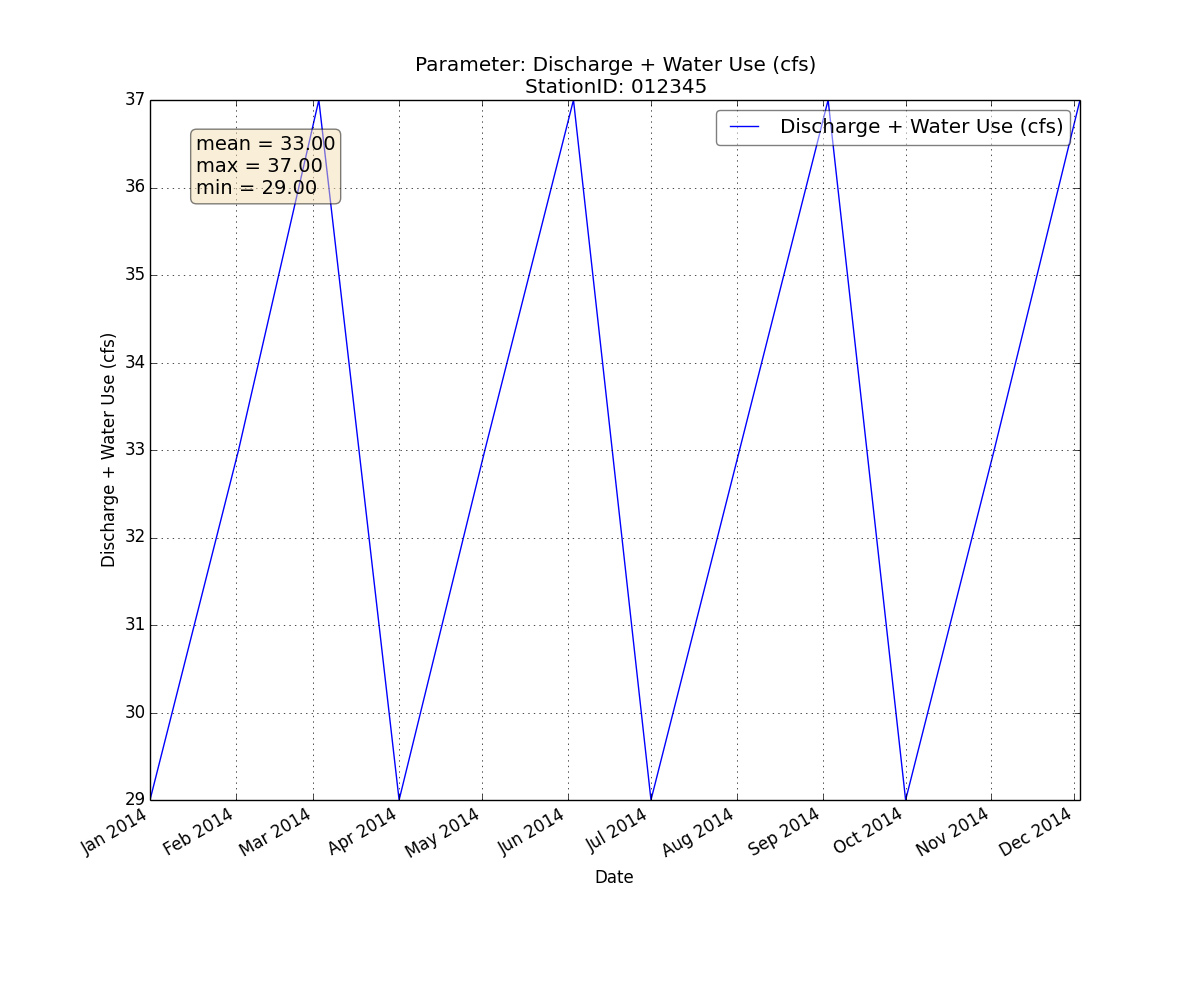
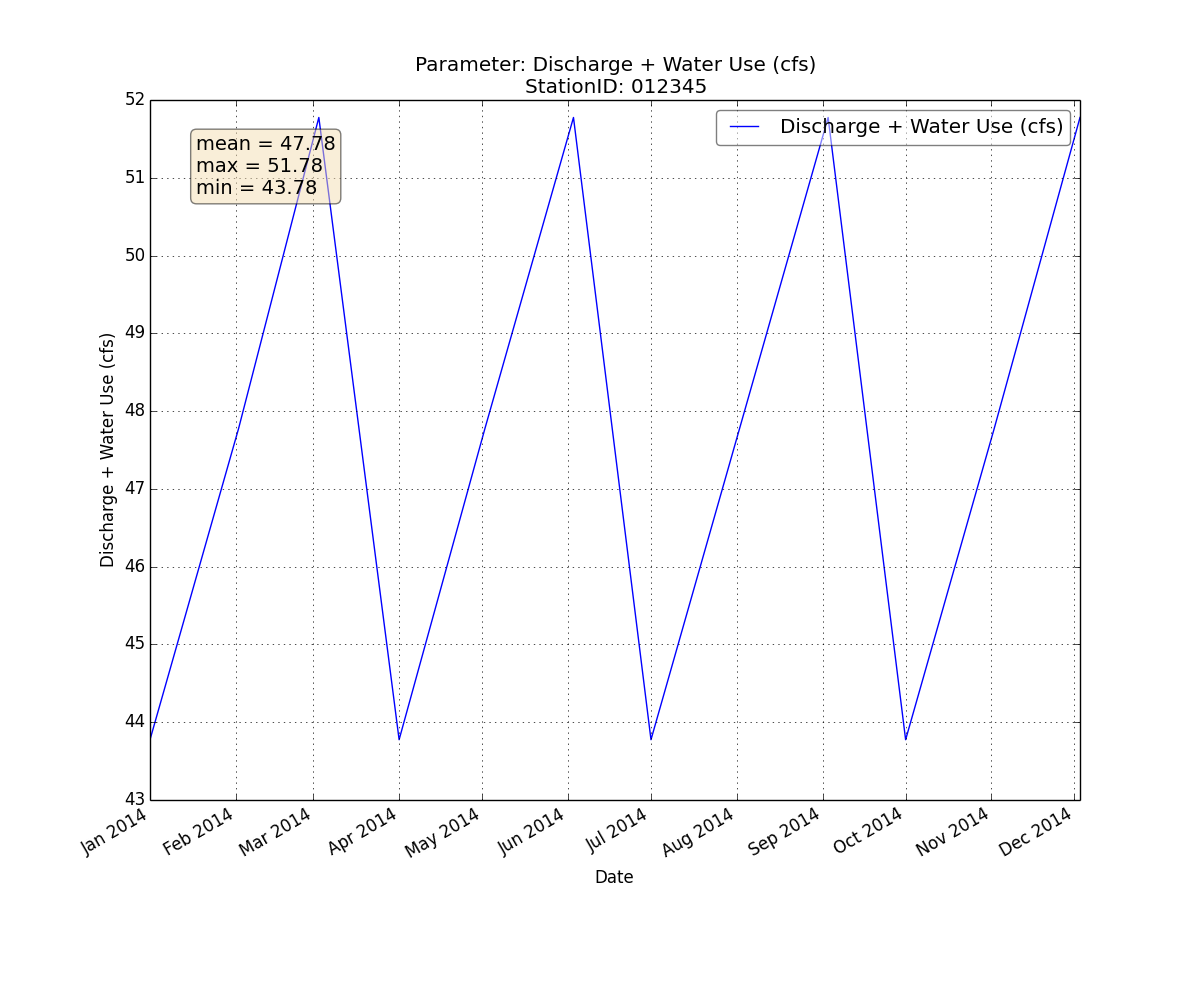
added unit conversion from mega gallons per day to cubic feet per second

diff --git a/waterapputils/wateruse.py b/waterapputils/wateruse.py
@@ -150,7 +150,7 @@ def get_wateruse_values(wateruse_data, id_list):
         
     Returns
     -------
-    values: list
+    values : list
         List containing lists of water use values for each id in id_list; shape is m x n where m is the number of water use values and n is number of ids in id_list   
     
     Notes
@@ -158,7 +158,7 @@ def get_wateruse_values(wateruse_data, id_list):
     values = [[  1.3   2.7   3.3   4.7   5.3   6.7   7.3   8.7   9.3  10.7  11.3  12.7]
               [  1.2   2.8   3.2   4.8   5.2   6.8   7.2   8.8   9.2  10.8  11.2  12.8]]
     """
-    # get water use types of interest; 
+    # get all water use types from column names
     wateruse_types = []
     for name in wateruse_data["column_names"]:
         if name not in ["huc12", "newhydroid"]:
@@ -181,9 +181,11 @@ def get_wateruse_values(wateruse_data, id_list):
 
     return values
 
+
 def sum_values(values):
     """   
-    Get water use values based on id(s) of interest.
+    Sum values row-wise, column-wise, and absolute total. Return dictionary containing
+    each sum.
     
     Parameters
     ----------
@@ -244,6 +246,27 @@ def create_monthly_wateruse_dict(wateruse_data, wateruse_value):
                 monthly_wateruse_dict[month] = wateruse_value
 
     return monthly_wateruse_dict
+
+def convert_wateruse_units(value):
+    """   
+    Convert values from a mega gallons to cubic feet per second
+    
+    Parameters
+    ----------
+    value : float
+        Float value in mega gallons per day
+        
+    Returns
+    -------
+    converted_value: float
+        Float value in cubic feet per second    
+    """    
+    # 1 Mgal / 1 day * 10**6 gal / 1 Mgal * 0.133681 ft**3 / 1 gal * 1 day / 24 hours * 1 hour / 3600 seconds
+    conversion_factor = ((10**6. * 0.133681) / (24 * 3600)) 
+    
+    converted_value = value * conversion_factor
+
+    return converted_value
     
 def get_total_wateruse(wateruse_data, id_list):
     """   
@@ -285,19 +308,21 @@ def get_total_wateruse(wateruse_data, id_list):
     total_wateruse_dict = create_monthly_wateruse_dict(wateruse_data, wateruse_value = sums["total"])
 
     return total_wateruse_dict   
-
-def get_all_total_wateruse(wateruse_files, id_list):
+    
+def get_all_total_wateruse(wateruse_files, id_list, in_cfs = False):
     """    
-    Get all total water use values for a list of specific id values.
-
+    Get all total water use values for a list of specific id values. 
+    The base unit in the water use data file is mega gallons per day (Mgal/day) .
+    Can convert to cubic feet per second (cfs) using in_cubic_feet_per_sec flag.
+    
     Parameters
     ----------
     wateruse_files : list
         List of water use files to calculate the sum of all water use values 
-
     ids : list
         List of ids values.
-    
+    in_cfs : boolean
+        Boolean flag to convert units from Mgal to cfs 
     See Also
     --------
     get_total_wateruse()
@@ -311,6 +336,12 @@ def get_all_total_wateruse(wateruse_files, id_list):
        
         # calculate average wateruse for a list of ids
         total_wateruse_dict = get_total_wateruse(wateruse_data = wateruse_data, id_list = id_list)
+
+        # convert values to cfs
+        if in_cfs:
+            for key, value in total_wateruse_dict.iteritems():
+                value_cfs = convert_wateruse_units(value)
+                total_wateruse_dict[key] = value_cfs
         
         # update dictionary 
         all_total_wateruse_dict.update(total_wateruse_dict)   

diff --git a/tests/wateruse_tests.py b/tests/wateruse_tests.py
@@ -246,6 +246,24 @@ def test_sum_values2():
 
     # assert equality
     _perform_assertion(actual, expected, verbose = VERBOSE, description = description)   
+
+def test_convert_wateruse_units():
+    """ Test convert_wateruse_units() """
+    
+    description = "Test convert_wateruse_units() which converts from mega gallons per day to cubic feet per second"
+
+    # expected values
+    expected = {"1": 1.5472337962962963,
+                "5": 7.736168981481482
+    }
+    
+    # read file object
+    actual = {"1" : wateruse.convert_wateruse_units(value = 1.),
+              "5" : wateruse.convert_wateruse_units(value = 5.)
+    }
+    
+    # assert equality
+    _perform_assertion(actual, expected, verbose = VERBOSE, description = description) 
     
 def test_create_monthly_wateruse_dict1():
     """ Test create_monthly_wateruse_dict() part 1 - testing January, Februray, March """

diff --git a/waterapputils/waterapputils.py b/waterapputils/waterapputils.py
@@ -325,7 +325,7 @@ def apply_wateruse_to_txt_files(files_dict, arguments):
         print("Centroids: {}\n".format(centroids))  
 
         # get sum of the water use data
-        total_wateruse_dict = wateruse.get_all_total_wateruse(wateruse_files = files_dict["wateruse_files"], id_list = centroids)
+        total_wateruse_dict = wateruse.get_all_total_wateruse(wateruse_files = files_dict["wateruse_files"], id_list = centroids, in_cfs = True)
 
         print("Total water use dictionary: {}\n".format(total_wateruse_dict))
 
